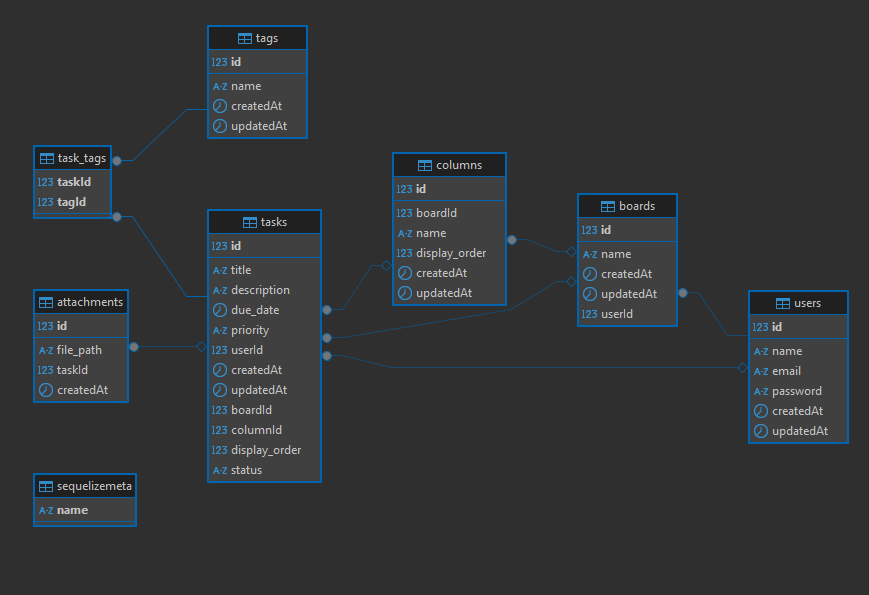
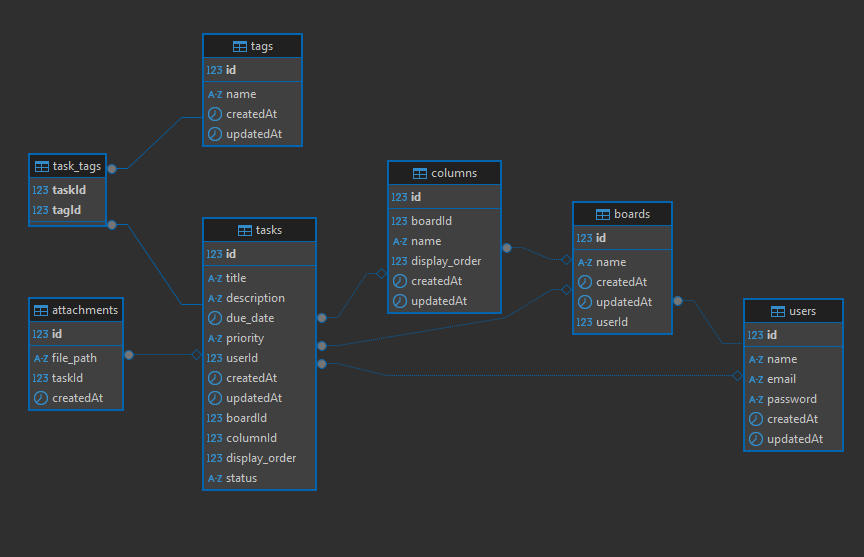
update readme

diff --git a/README.md b/README.md
@@ -29,16 +29,12 @@ La idea es ofrecer una alternativa práctica, clara y visualmente atractiva, enf
 ### Tablas / modelos:
 
 - **Users**: Información de usuarios como nombre, correo y contraseña.
+- -**Boards** Tablero principal la cual contendrá las columnas y las tareas.
+- -**Columns** Columnas que representan el estado de las tareas que contienen, estas estarán asociadas a un tablero.
 - **Tasks**: Tareas con título, descripción, vencimiento, estado, prioridad y usuario asociado.
-- **Projects**: Proyectos con nombre y descripción.
-- **\*Task_Projects**: Relación muchos a muchos entre tareas y proyectos.
-- **Categories**: Categorías de tareas con nombre y descripción.
-- **\*Task_Categories**: Relación muchos a muchos entre tareas y categorías.
 - **Tags**: Etiquetas libres para clasificar tareas de forma flexible.
 - **\*Task_Tags**: Relación muchos a muchos entre tareas y etiquetas.
-- **Comments**: Comentarios de usuarios asociados a tareas.
 - **Attachments**: Archivos adjuntos relacionados a tareas.
-- **Task_History**: Historial de cambios de estado, prioridad y más en tareas.
 
 ### Diagrama completo de la Base de Datos:
 
